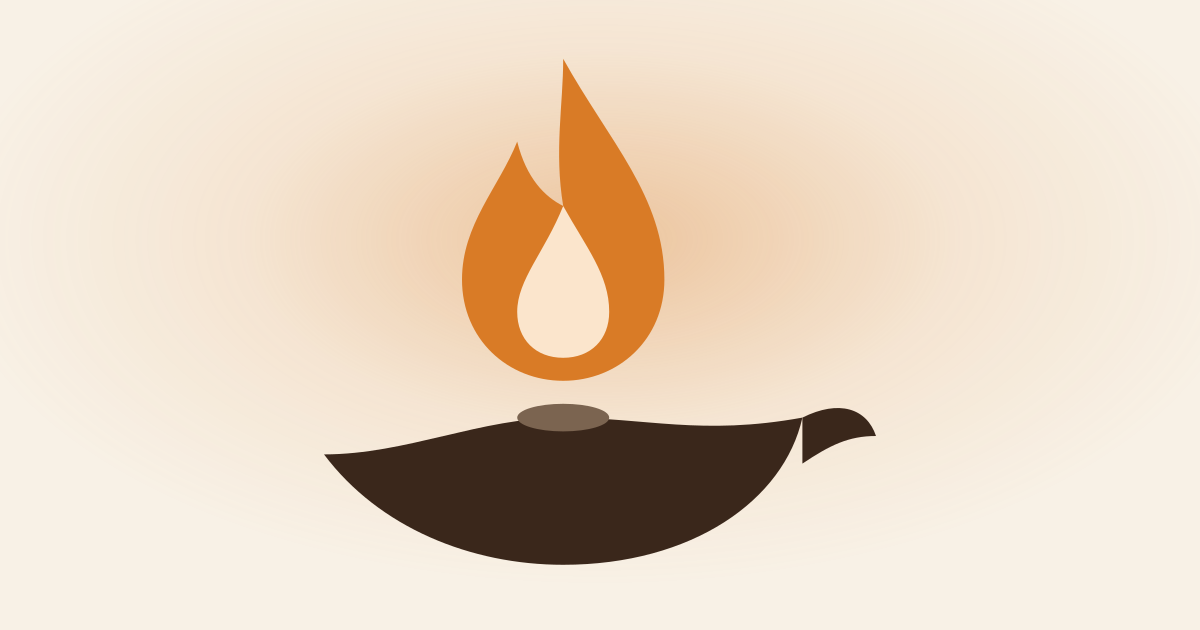
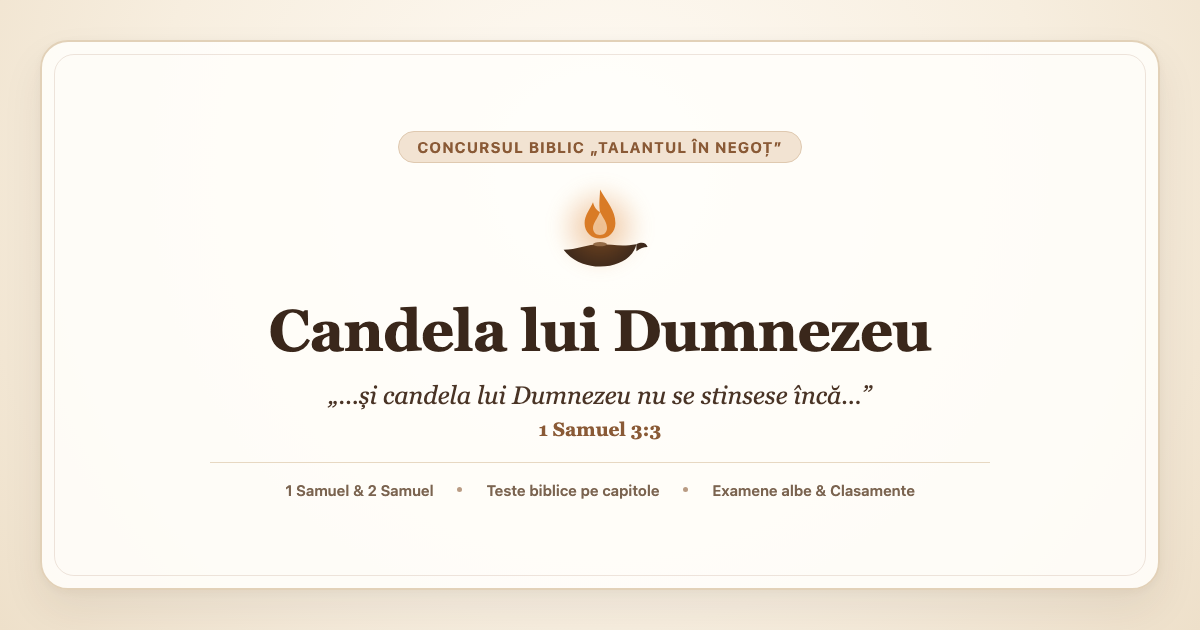
Renomme la marque en Candela lui Dumnezeu (1 Samuel 3:3) dans les headers, l'authentification, le partage WhatsApp et le contexte du concours Talantul în Negoț

diff --git a/src/styles/global.css b/src/styles/global.css
@@ -137,6 +137,41 @@ img, svg { display: block; }
 .auth-card .field { gap: 4px; }
 .auth-card .input { min-height: 44px; }
 .auth-card .two { grid-template-columns: 1fr 1fr; gap: 10px; }
+.auth-brand {
+  text-align: center;
+  padding: 4px 6px 14px;
+  border-bottom: 1px solid var(--line);
+  display: flex;
+  flex-direction: column;
+  gap: 5px;
+}
+.auth-brand-badge {
+  display: inline-block;
+  align-self: center;
+  padding: 3px 12px;
+  border-radius: 999px;
+  background: var(--cedar-soft);
+  color: var(--oil);
+  font-size: 0.72rem;
+  font-weight: 700;
+  letter-spacing: 0.05em;
+  text-transform: uppercase;
+}
+.auth-brand-title {
+  font: 700 1.35rem/1.2 var(--f-display);
+  color: var(--oil-ink);
+  margin: 0;
+}
+.auth-brand-verse {
+  font: italic 400 0.92rem/1.4 var(--f-bible);
+  color: var(--ink);
+  margin: 0;
+}
+.auth-brand-ref {
+  font-size: 0.8rem;
+  font-weight: 600;
+  color: var(--oil);
+}
 .kid-row { display: flex; gap: 8px; }
 .kid-x { flex: none; width: 44px; min-height: 44px; padding: 0; }
 .kid-add { align-self: flex-start; margin-top: 2px; }

diff --git a/src/islands/HeaderTitle.tsx b/src/islands/HeaderTitle.tsx
@@ -1,18 +1,4 @@
-import { player } from '../lib/players';
-import { profile, rememberedAccount, user } from '../lib/session';
-
-/** Header title: "Bun venit, Ana" for a signed-in player, the site name otherwise. */
+/** Site header title. */
 export default function HeaderTitle() {
-  const u = user.value;
-  // while Firebase restores the session, the last visit's name is shown
-  const current = player.value?.name;
-  const full = u
-    ? (current && current !== 'Eu' && current !== 'Invitat' ? current : profile.value?.name || u.displayName)
-    : u === undefined
-      ? rememberedAccount?.name
-      : '';
-  const parts = (full ?? '').trim().split(/\s+/).filter(Boolean);
-  const first = parts.length > 1 ? parts.slice(1).join(' ') : (parts[0] ?? '');
-  return <span class="brand-text">{first ? `Bun venit, ${first}` : 'Candela'}</span>;
+  return <span class="brand-text">Candela lui Dumnezeu</span>;
 }
-

diff --git a/src/islands/AccountGate.tsx b/src/islands/AccountGate.tsx
@@ -20,6 +20,12 @@ function NeedAccount() {
   const next = encodeURIComponent(location.pathname + location.search);
   return (
     <div class="card auth-card stack">
+      <div class="auth-brand">
+        <span class="auth-brand-badge">Concursul „Talantul în Negoț”</span>
+        <h1 class="auth-brand-title">Candela lui Dumnezeu</h1>
+        <p class="auth-brand-verse">„...și candela lui Dumnezeu nu se stinsese încă...”</p>
+        <span class="auth-brand-ref">1 Samuel 3:3</span>
+      </div>
       <h2>Intră în cont ca să joci</h2>
       <p>Întrebările se joacă din cont, ca să-ți păstrăm progresul pe orice telefon și să apari în clasament. Copiii joacă din contul unui părinte.</p>
       <p class="small muted">Ai avut cont pe versiunea veche a site-ului? Intră cu același email și aceeași parolă.</p>

diff --git a/src/islands/AccountPage.tsx b/src/islands/AccountPage.tsx
@@ -38,6 +38,12 @@ function SignInForm() {
 
   return (
     <form class="card auth-card stack" onSubmit={submit}>
+      <div class="auth-brand">
+        <span class="auth-brand-badge">Concursul „Talantul în Negoț”</span>
+        <h1 class="auth-brand-title">Candela lui Dumnezeu</h1>
+        <p class="auth-brand-verse">„...și candela lui Dumnezeu nu se stinsese încă...”</p>
+        <span class="auth-brand-ref">1 Samuel 3:3</span>
+      </div>
       <h2>Intră în cont</h2>
       <p class="small muted">Ai avut cont pe versiunea veche a site-ului? Intră cu același email și aceeași parolă.</p>
       <div class="field">

diff --git a/src/islands/SignUpForm.tsx b/src/islands/SignUpForm.tsx
@@ -53,6 +53,12 @@ export default function SignUpForm() {
 
   return (
     <form class="card auth-card stack" onSubmit={submit}>
+      <div class="auth-brand">
+        <span class="auth-brand-badge">Concursul „Talantul în Negoț”</span>
+        <h1 class="auth-brand-title">Candela lui Dumnezeu</h1>
+        <p class="auth-brand-verse">„...și candela lui Dumnezeu nu se stinsese încă...”</p>
+        <span class="auth-brand-ref">1 Samuel 3:3</span>
+      </div>
       <h2>Creează un cont</h2>
       <div class="two">
         <div class="field">

diff --git a/src/islands/ResetForm.tsx b/src/islands/ResetForm.tsx
@@ -33,6 +33,11 @@ export default function ResetForm() {
 
   return (
     <form class="card auth-card stack" onSubmit={submit}>
+      <div class="auth-brand">
+        <h1 class="auth-brand-title">Candela lui Dumnezeu</h1>
+        <p class="auth-brand-verse">„...și candela lui Dumnezeu nu se stinsese încă...”</p>
+        <span class="auth-brand-ref">1 Samuel 3:3</span>
+      </div>
       <h2>Parolă nouă</h2>
       <p class="muted">Îți trimitem un link pentru o parolă nouă.</p>
       <div class="field">
